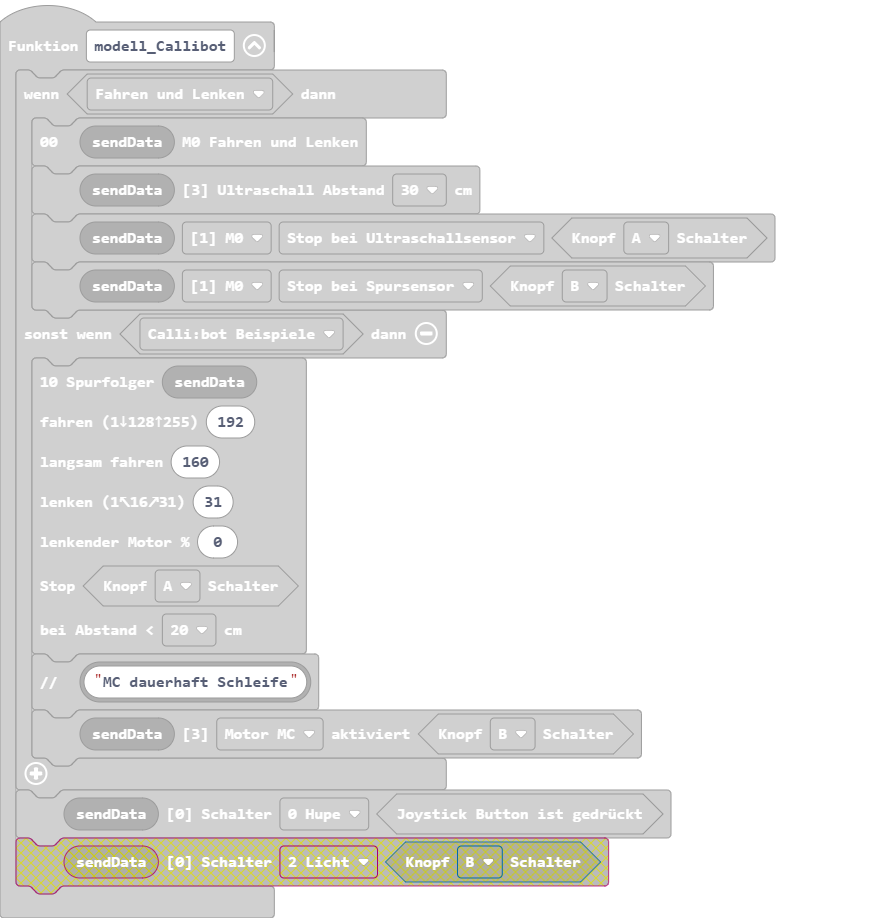
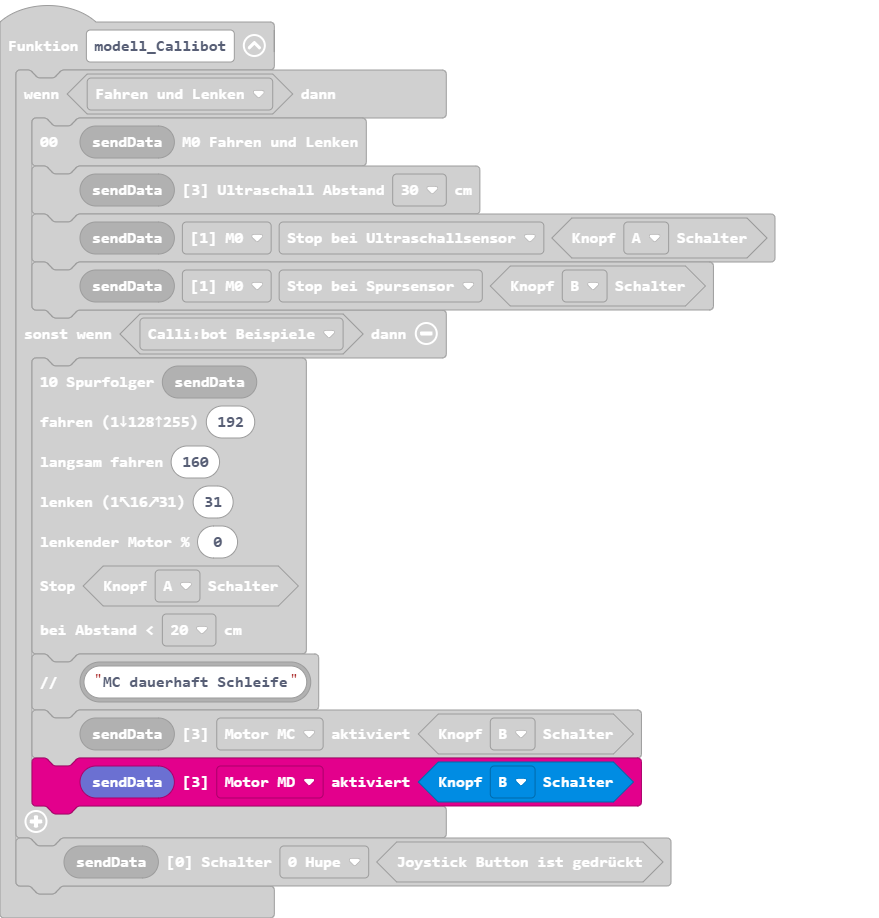
Aktualisiere pxt.json, main.blocks, main.ts

Changed region(s): [[0.0, 0.8235, 0.7679, 0.976]]

diff --git a/main.ts b/main.ts
@@ -16,6 +16,7 @@ function modell_Callibot () {
         )
         btf.comment(btf.btf_text("MC dauerhaft Schleife"))
         btf.setaktiviert(btf.btf_sendBuffer19(), btf.e3aktiviert.mc, sender.getButtonAB_Switch(sender.eButtonAB_Switch.B))
+        btf.setaktiviert(btf.btf_sendBuffer19(), btf.e3aktiviert.md, sender.getButtonAB_Switch(sender.eButtonAB_Switch.B))
     }
     btf.setSchalter(btf.btf_sendBuffer19(), btf.e0Schalter.b0, sender.joystickButtonPosition())
 }
